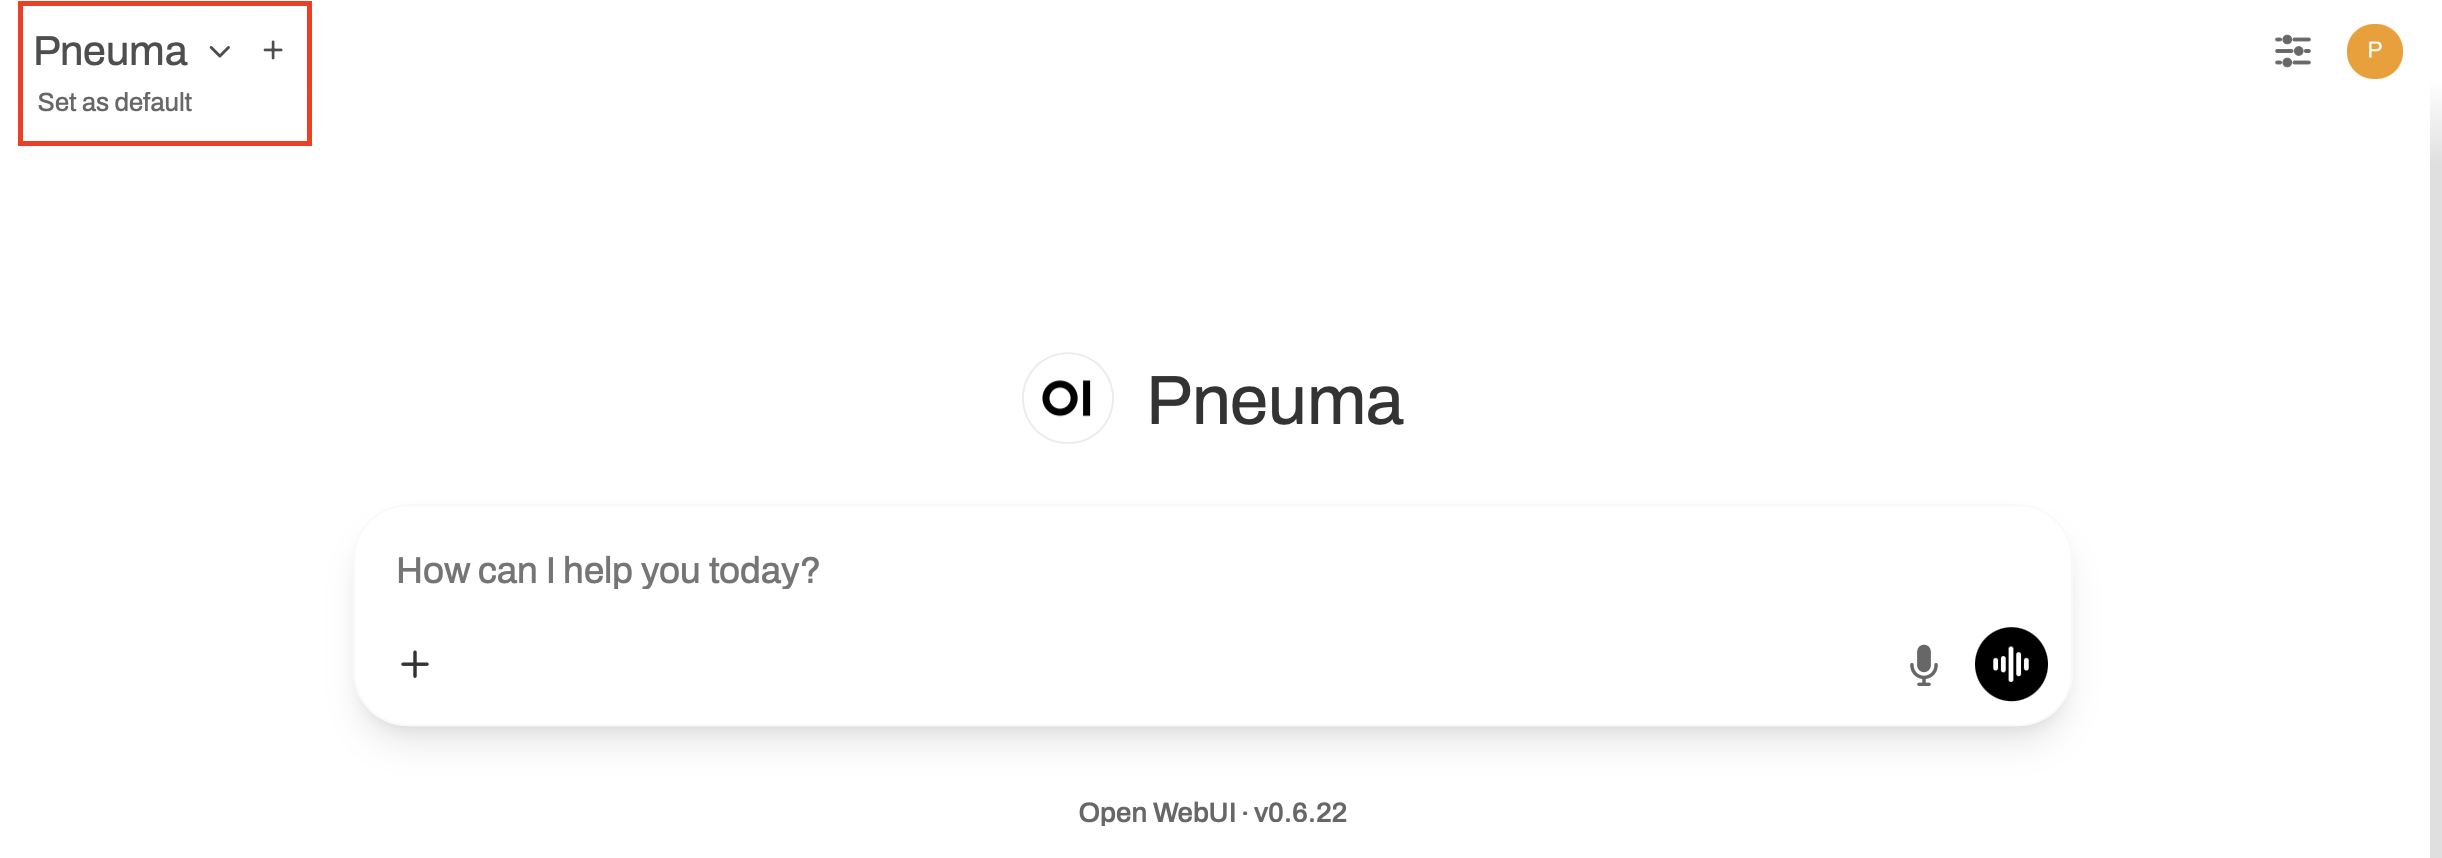
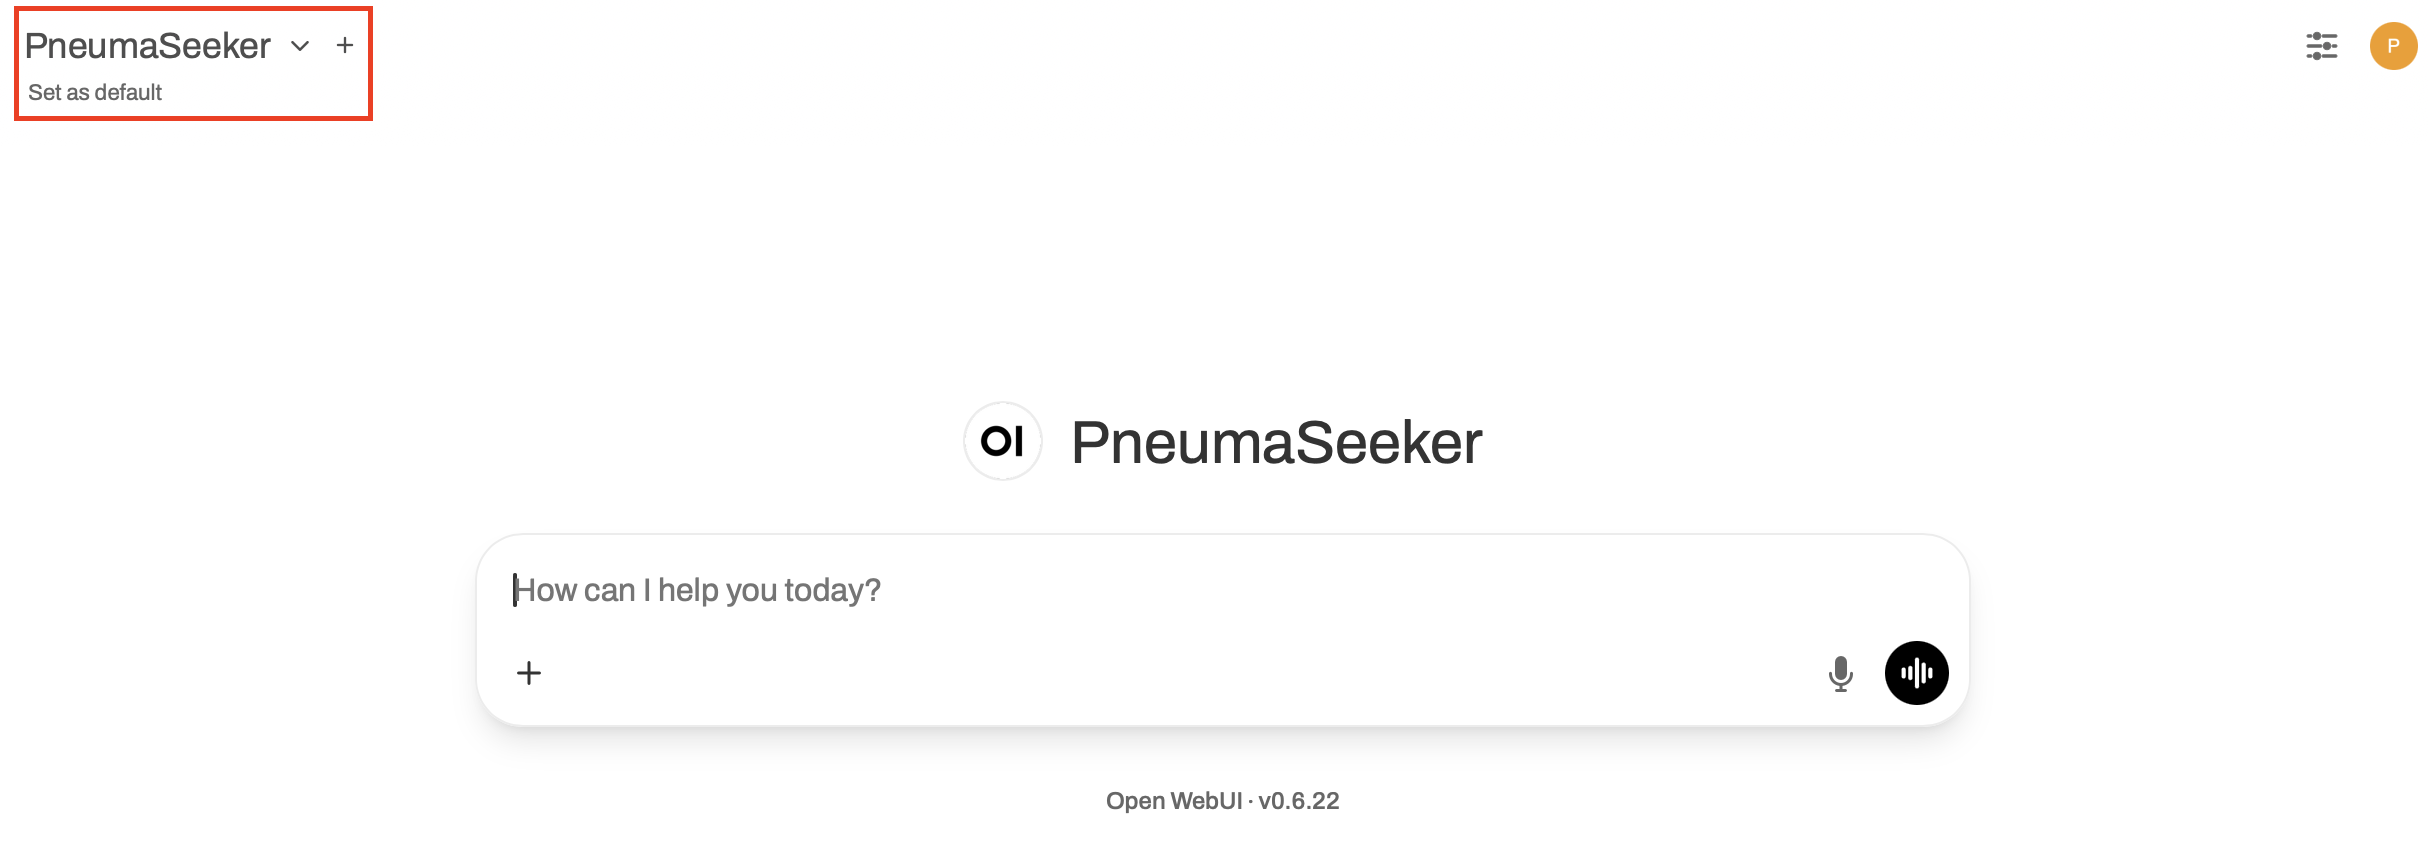
Update figures

diff --git a/README.md b/README.md
@@ -50,7 +50,7 @@ cd pneuma-seeker-ui
 nohup open-webui serve >> output.out &
 ```
 
-In the OpenWebUI interface, create and log into an admin account. Then, import all functions (`.json` files) in `/openwebui_functions` so that the UI can communicate with the Pneuma-Seeker backend. Enable all imported functions and select `Pneuma` as the model for chat.
+In the OpenWebUI interface, create and log into an admin account. Then, import all functions (`.json` files) in `/openwebui_functions` so that the UI can communicate with the Pneuma-Seeker backend. Enable all imported functions and select `PneumaSeeker` as the model for chat.
 
 ![Import functions to OpenWebUI](docs/figures/openwebui_import.png)
 ![Enable functions in OpenWebUI](docs/figures/openwebui_function_list.png)
